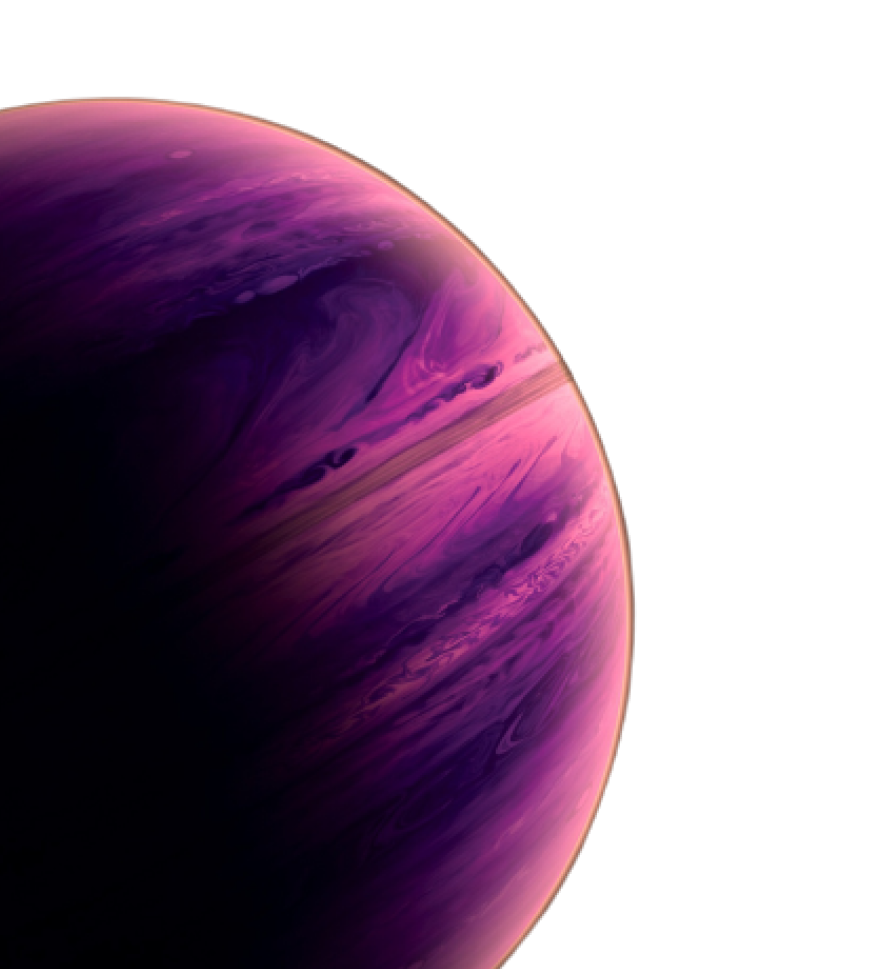
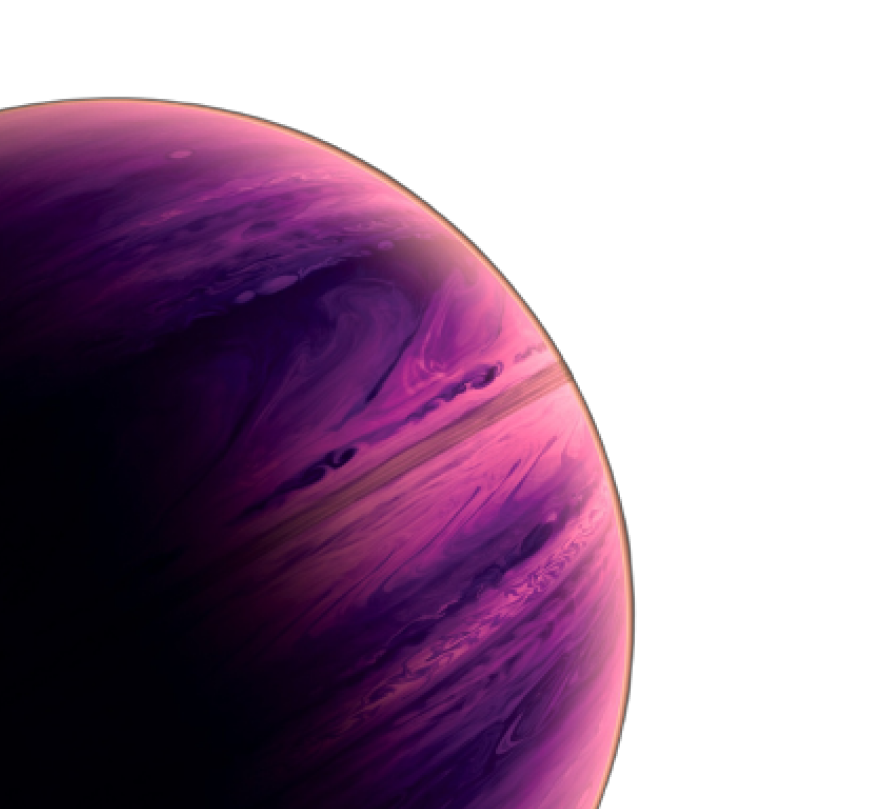
Login Page CSS

Changed region(s): [[0.0, 0.0927, 0.7389, 1.0], [0.2463, 0.4326, 0.2771, 0.4635]]

diff --git a/how-to-project/public/index.css b/how-to-project/public/index.css
@@ -15,7 +15,11 @@ body {
 }
 
 /* ******************* NAVBAR *****************  */
-
+/* login page navbar */
+.login-nav{
+  margin-top: 25px;
+  margin-left: 65px;
+}
 /* .Logo{
   margin-left: 20px;
   margin-top: 20px;
@@ -28,9 +32,9 @@ body {
 nav{
   display: flex;
   align-items: center;
-  justify-content: space-between;
+  justify-content: space-around;
   padding-left: 50px;
-  padding-right: 250px;
+  padding-right: 50px;
   padding-top: 10px;
   margin-bottom: -18px;
 }
@@ -65,6 +69,7 @@ nav ul li a:hover{
 }
 hr{
   border: 2px solid #DEE5EE;
+  margin-bottom: 0px;
 }
 
 .b2{
@@ -109,20 +114,93 @@ font-size: 16px;
 .dropdown-content {
   display: none;
   position: absolute;
-  background-color: #f9f9f9;
+  background-color: #f8f8f8;
   min-width: 160px;
   box-shadow: 0px 8px 16px 0px rgba(0,0,0,0.2);
   z-index: 1;
+  border-radius: 8px;
+  padding: 4px 0px;
 }
 
-.dropdown-content a {
-  color: black;
-  padding: 12px 16px;
-  text-decoration: none;
-  display: block;
+.dropdown-content li {
+  /* width: 190px;
+    height: 50px;
+    border: 2px solid #8152BD;
+    border-radius: 2px;
+    margin: 10px;
+    padding-top: 7px;
+    text-decoration: none;
+    display: block;
+    text-align: center;
+    background-color: #8760ba;
+    color: white; */
+
+    --c: #7D5FBB;
+    color: var(--c);
+    font-size: 16px;
+    border: 0.2em solid var(--c);
+    border-radius: 0.5em;
+    width: 200px;
+    /* height: 40px; */
+    text-transform: uppercase;
+    font-weight: bold;
+    font-family: sans-serif;
+    letter-spacing: 0.1em;
+    text-align: center;
+    line-height: 1.8em;
+    position: relative;
+    overflow: hidden;
+    z-index: 1;
+    transition: 0.5s;
+    margin: 0.5em 1em; 
 }
 
-.dropdown-content a:hover {background-color: #f1f1f1}
+.dropdown-content li span {
+  position: absolute;
+    width: 25%;
+    height: 100%;
+    background-color: var(--c);
+    transform: translateY(150%);
+    border-radius: 50%;
+    left: calc((var(--n) - 1) * 25%);
+    transition: 0.5s;
+    transition-delay: calc((var(--n) - 1) * 0.1s);
+    z-index: -1;
+}
+
+.dropdown-content li:hover {
+  color: white;
+  cursor: pointer;
+}
+
+.dropdown-content li:hover span {
+  transform: translateY(0) scale(2);
+}
+
+.dropdown-content li span:nth-child(1) {
+  --n: 1;
+}
+
+.dropdown-content li span:nth-child(2) {
+  --n: 2;
+}
+
+.dropdown-content li span:nth-child(3) {
+  --n: 3;
+}
+
+/* nav ul li span:nth-child(4) {
+  --n: 4;
+} */
+
+.dropdown-content *:hover {
+  /* border: 2px solid #8152BD; */
+  /* background-color: #8152BD;
+  color: white;
+  border-radius: 2px;
+  border: 2px solid #8152BD; */
+  
+}
 
 .dropdown:hover .dropdown-content {
   display: block;
@@ -804,7 +882,8 @@ height: 182px; */
 /*************************LOGIN & SIGNUP PAGE*********************/
 
 .loginPlanet{
-  height: 800px;
+  height: 700px;
+  margin-top: -3%;
 }
 .ver-line{
   display: flex;
@@ -814,13 +893,30 @@ height: 182px; */
   border-left: 5px solid #212121;
   width: 400px;
 }
-.Google-Button{
+.Google-Button-cont{
   margin-top: 3;
 }
-.form-container{
-    margin:100px ;
-    width: 400px;
+.google-button{
+  width: 380px !important;
+    margin-top: 20px;
+    /* margin: 20px; */
+    margin-left: auto;
+    margin-right: auto;
+}
+.form-cont{
+    margin:20% 40% ;
+    width: 450px;
   }
+
+.credentials{
+  background-color: white;
+    color: #4F555A !important;
+    border-radius: 5px;
+    margin: 10px;
+    width: 80%;
+    margin-left: auto;
+    margin-right: auto;
+}
 
   /********************AdminPage*************************/
 

diff --git a/how-to-project/src/Pages/LoginPage.jsx b/how-to-project/src/Pages/LoginPage.jsx
@@ -8,10 +8,11 @@ import LoginPlanet from "../Images/LoginPlanet.png"
 import { UserAuth } from "../Firebase/AuthContext";
 import useAuthState from "../Firebase/hooks";
 import { auth } from "../Firebase/firebase";
-import Navbar from "../Elements/Navbar";
 import Login from '../Images/Login.png'
 import {GoogleButton } from 'react-google-button'
 import './contribute.css';
+import Logo from "../Images/Logo.png";
+
 
 
 
@@ -56,30 +57,39 @@ function LoginPage() {
     }
   }
   return (
-    <>
-    <Navbar/>
+    <div style={{height:"100vh", overflowY:"hidden"}}>
+    <div class="bar">
+      <div class="login-nav">
+        <img class="Logo" src={Logo} alt="Logo" />
+      </div>
+      <hr/>
+    </div>
+
     <div className="loginpage">
 
     <div className="ver-line">
       <img className="loginPlanet"  src={LoginPlanet} alt="mainImg" />
       <div className="vert-line">
-        <div className="form-container">
+        
+        <div className="form-cont">
         <Typography variant="h4" color={"white"} align="center">Welcome !</Typography>
         <img class="loginImg" src={Login} alt="" />
-        <TextField id="Email" fullWidth></TextField>
-        <TextField id="Password" fullWidth sx={{color:"white"}}></TextField>
+
+        <div className="Google-Button-cont">  
+              {/* <Typography variant="h6" sx={{marginTop:3,color:"white"}}>Login as User ?</Typography>  */}
+              <GoogleButton class="google-button" onClick={handleGoogleSignIn}/>
+        </div>
+
+        <Typography variant="h6" sx={{marginTop:7,color:"white", textAlign:"center"}}>Login as Admin ?</Typography>  
+        <TextField class="credentials" id="Email" type="email" fullWidth placeholder="Enter Email"></TextField>
+        <TextField class="credentials" id="Password" type="password" fullWidth placeholder="Enter Password"></TextField>
           <Button  variant="contained"
           align="center"
           color="secondary"
-          sx={{ marginTop: "20px" ,width:"400px"}}
-          type="submit"> Sign up</Button>
+          sx={{ marginTop: "20px" ,width:"380px", backgroundColor:"#8152BD", marginLeft:"37px", height:"42px"}}
+          type="submit"> Sign In</Button>
 
-        <div className="Google-Button">  
-              <Typography variant="h6" sx={{marginTop:3,color:"white"}}>Login as Admin ?</Typography>  
-              <GoogleButton  onClick={handleGoogleSignIn}/>
-        </div>
-
-
+      
         </div>
       </div>
 
@@ -87,7 +97,7 @@ function LoginPage() {
     </div> 
 
     </div> 
-    </>
+    </div>
   );
 }
 

diff --git a/how-to-project/src/Elements/Navbar.jsx b/how-to-project/src/Elements/Navbar.jsx
@@ -9,8 +9,8 @@ function Navbar () {
                 <img class="Logo" src={Logo} alt="Logo" />
                 
                 <ul>
-                    <li class="active-page"><a href="/">Home</a></li>
-                    <li><a href="/">Library</a></li>
+                    <li><a href="/">Home</a></li>
+                    <li><a href="/feed">My Feed</a></li>
                     <li><a href="/">Activities</a></li>
                     <li><a href="/">Search</a></li>
                     {/* <li><a href="feed">Feed</a></li>
@@ -20,18 +20,18 @@ function Navbar () {
                     <li>
                     <div class="dropdown">
                     <button class="dropbtn"><img src={Down_arrow}></img></button>
-                    <div class="dropdown-content">
-                        <button type="button" class="btn btn-info btn-lg" data-toggle="modal" data-target="#">Publish</button>
-                        <a href="#">Invite</a>
-                        <a href="#">Feedback</a>
-                    </div>
+                    <ul class="dropdown-content">
+                        {/* <button type="button" class="btn btn-info btn-lg" data-toggle="modal" data-target="#">Publish</button> */}
+                        <li>Publish <span></span><span></span><span></span><span></span></li>
+                        <li>Invite <span></span><span></span><span></span><span></span></li>
+                        <li>Feedback <span></span><span></span><span></span><span></span></li>
+                    </ul>
                     </div>
                     </li>
                     
                 </ul>
                 
 
-                <button type="button" class="b2">Get Chrome Extension</button>
                 <LoginIcon/>
 
             </nav>

diff --git a/how-to-project/src/Pages/home.jsx b/how-to-project/src/Pages/home.jsx
@@ -18,7 +18,37 @@ function Home() {
   return (
     <div>
       {/* Navbar */}
-      <Navbar/>
+      <div class="bar">
+            <nav>
+                <img class="Logo" src={Logo} alt="Logo" />
+                
+                <ul>
+                    <li class="active-page"><a href="/">Home</a></li>
+                    <li><a href="/feed">My Feed</a></li>
+                    <li><a href="/">Activities</a></li>
+                    <li><a href="/">Search</a></li>
+                    
+                    <li>
+                    <div class="dropdown">
+                    <button class="dropbtn"><img src={Down_arrow}></img></button>
+                    <ul class="dropdown-content">
+                        {/* <button type="button" class="btn btn-info btn-lg" data-toggle="modal" data-target="#">Publish</button> */}
+                        <li>Publish <span></span><span></span><span></span><span></span></li>
+                        <li>Invite <span></span><span></span><span></span><span></span></li>
+                        <li>Feedback <span></span><span></span><span></span><span></span></li>
+                    </ul>
+                    </div>
+                    </li>
+                    
+                </ul>
+                
+
+                <button type="button" class="b2">Get Chrome Extension</button>
+                <LoginIcon/>
+
+            </nav>
+            <hr/>
+        </div>
 
       {/*****  SECTION 1 ******/}
       <div class="home-section-1">

diff --git a/how-to-project/src/Pages/Feeds.jsx b/how-to-project/src/Pages/Feeds.jsx
@@ -2,6 +2,7 @@ import React, { useState, useEffect } from "react";
 import BlogCard from "../BlogCards";
 import LoginIcon from "../Elements/login";
 import Logo from "../Images/Logo.png";
+import NavBar from "../Elements/Navbar";
 import { Link } from "react-router-dom";
 import { Button , Typography } from "@mui/material";
 import TransitionModal from "../Elements/Modal"
@@ -33,7 +34,7 @@ function Feeds() {
     </nav>
     <hr/>
   </div> */}
-      <Navbar />
+      <NavBar />
 
       <div class="feed myfeed">
      {/*} {Blogs.map((blog) => (
